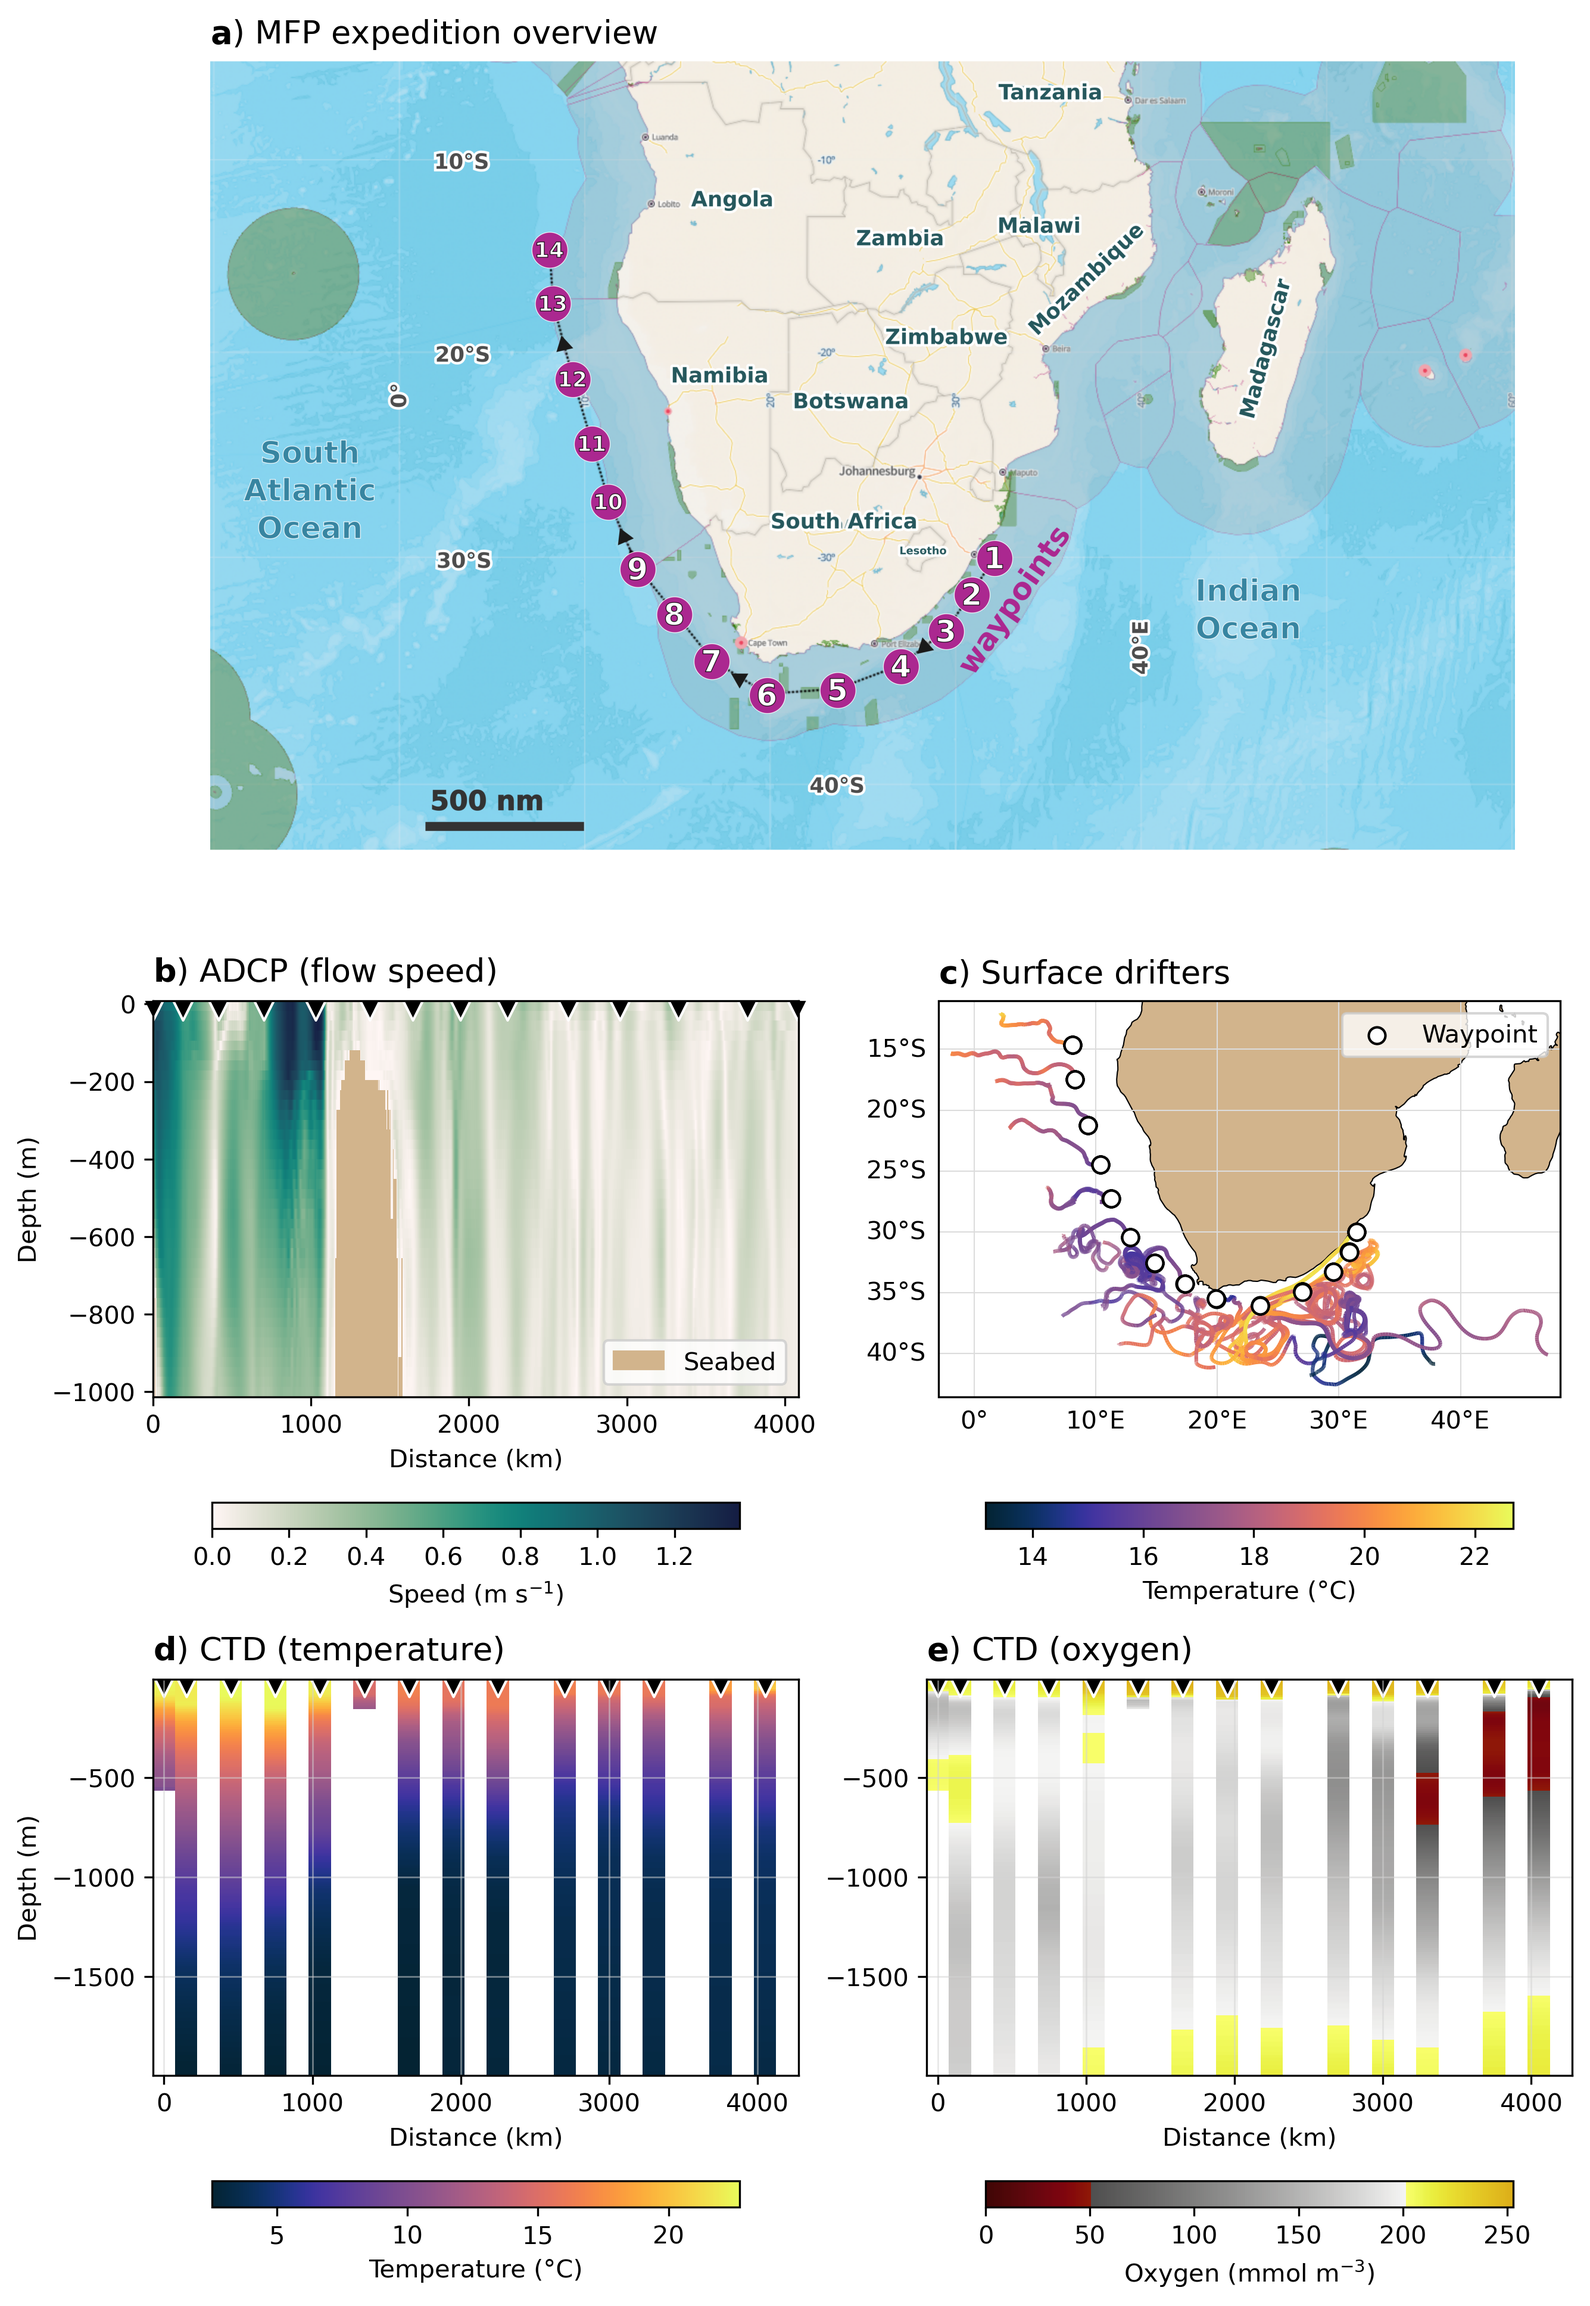
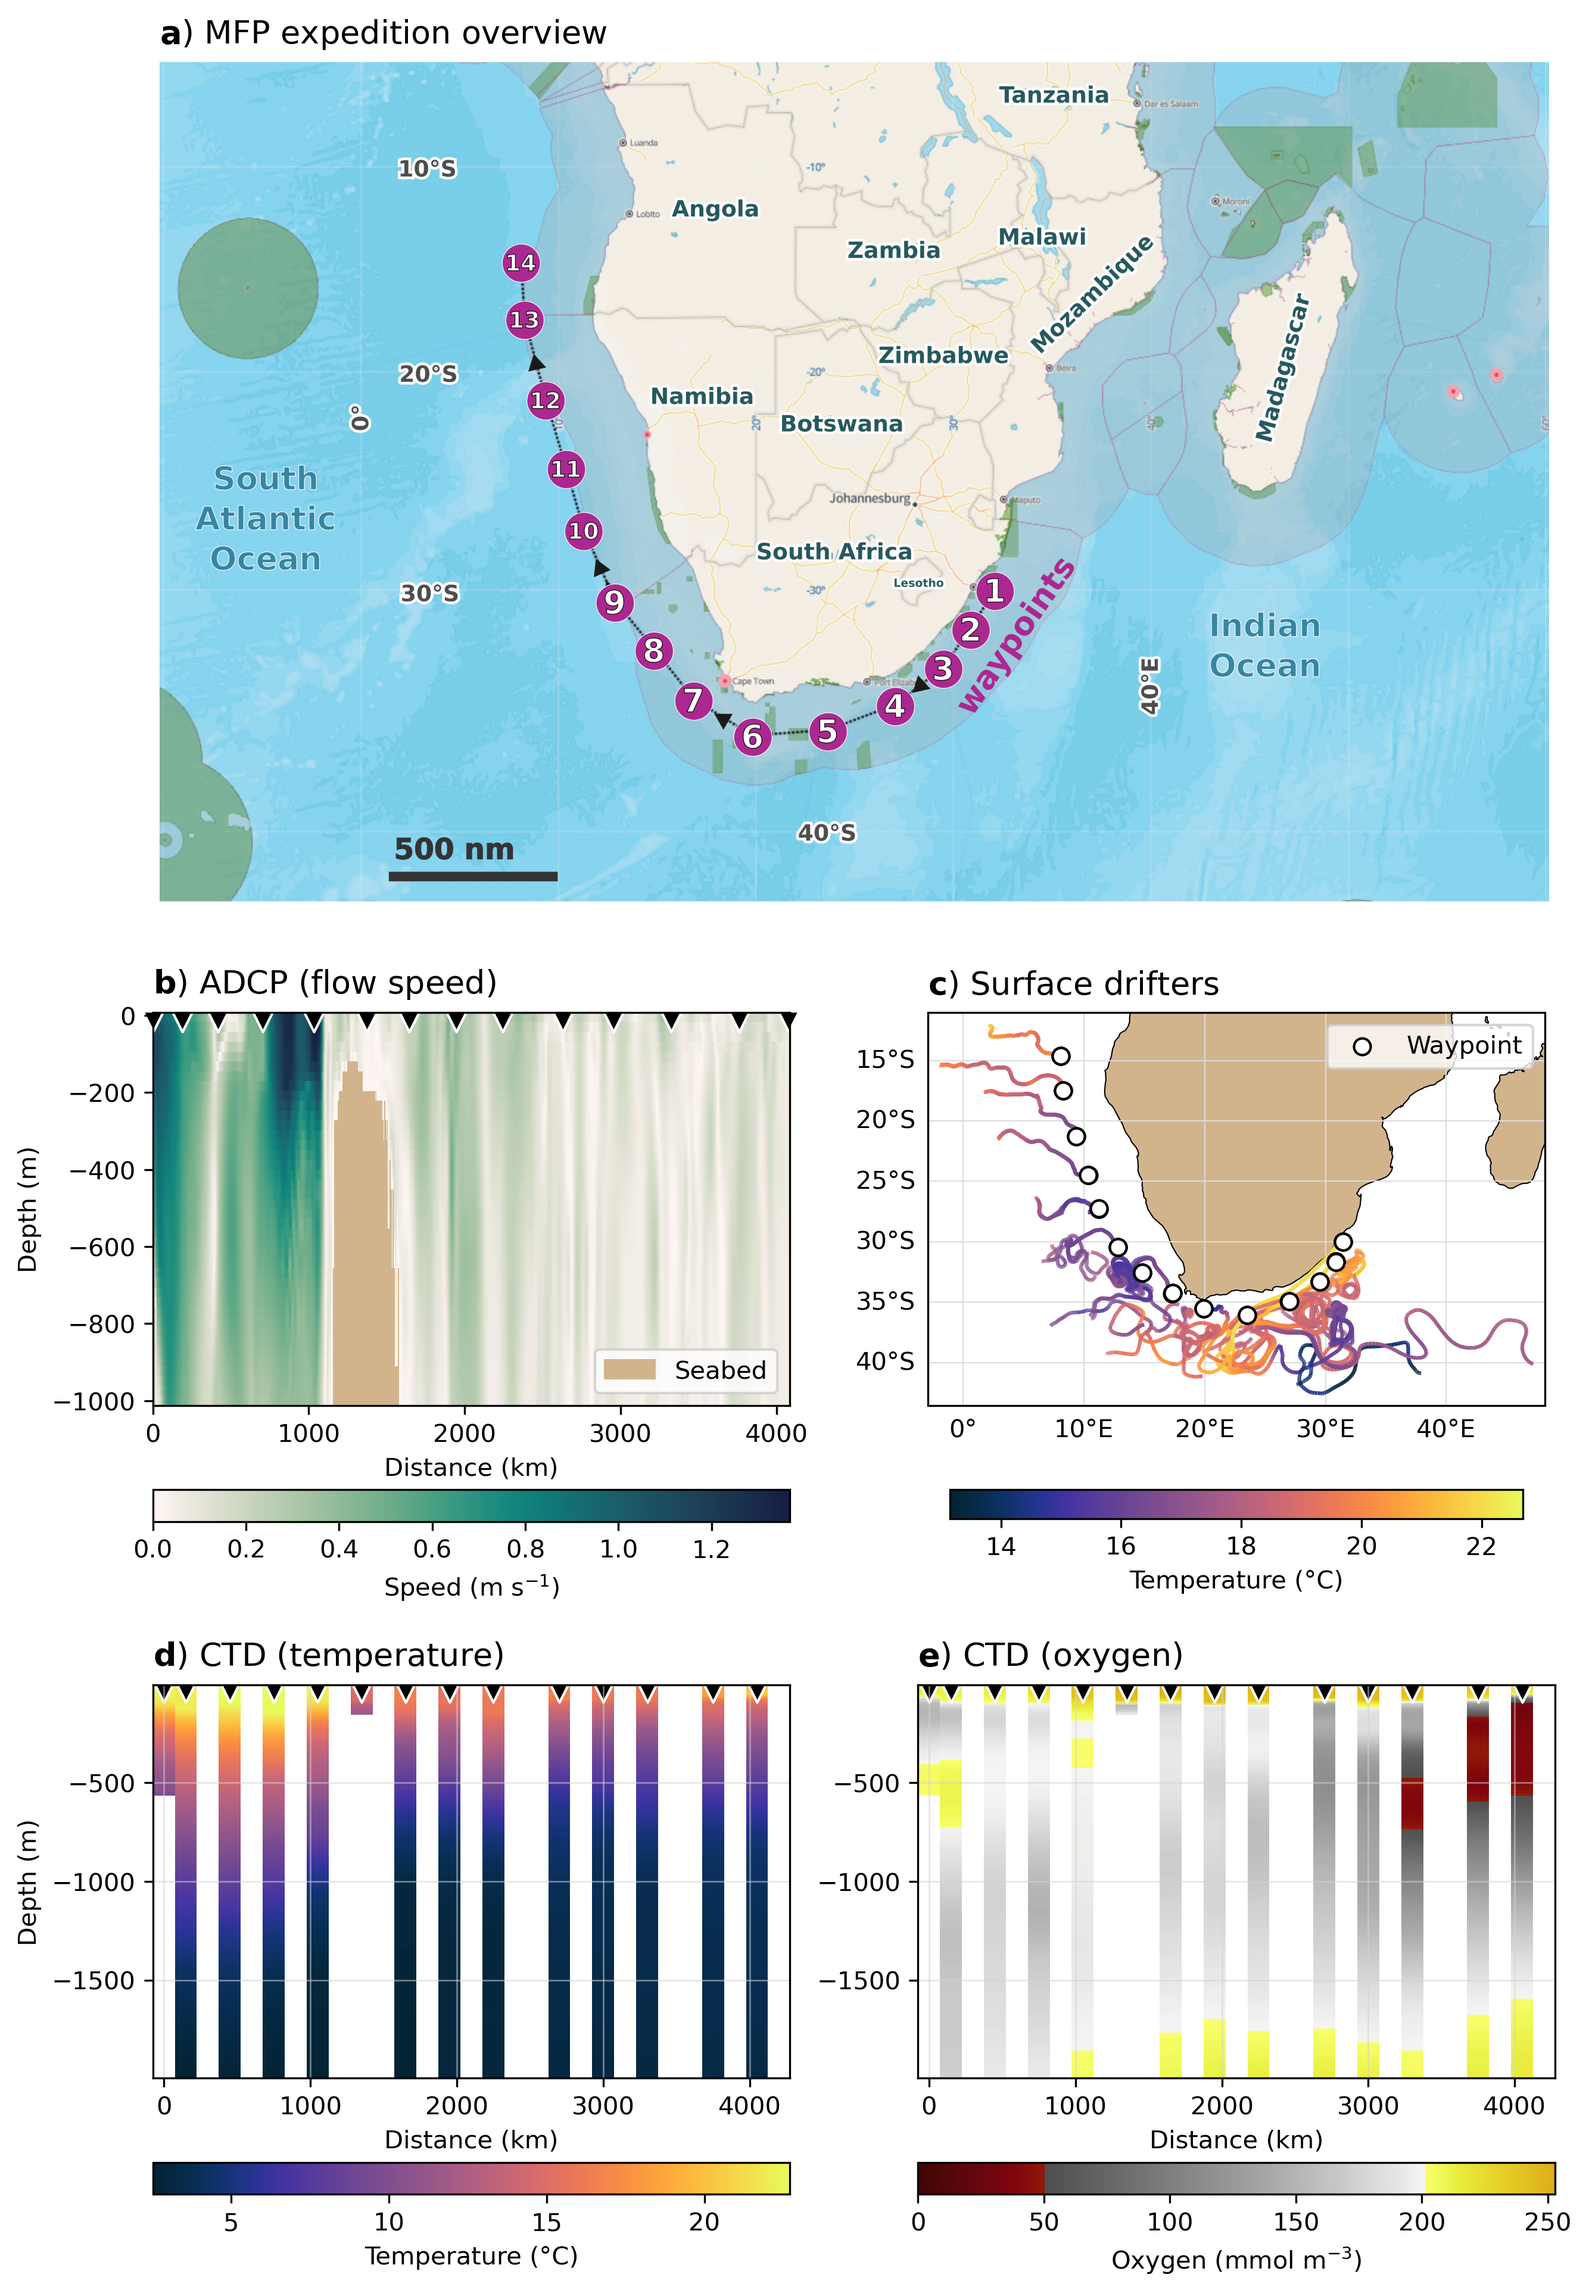
remove fraction and pad from cmap adding

Changed region(s): [[0.0311, 0.0, 0.9955, 0.9974], [0.0, 0.7792, 0.0933, 0.8727], [0.0, 0.4987, 0.0311, 0.561]]

diff --git a/docs/paper/plotting_functions.py b/docs/paper/plotting_functions.py
@@ -211,8 +211,6 @@ def _add_cmap(
     vmax,
     orientation="horizontal",
     shrink=0.90,
-    fraction=0.05,
-    pad=0.2,
 ):
     sm = plt.cm.ScalarMappable(cmap=cmap, norm=mcolors.Normalize(vmin, vmax))
     sm._A = []
@@ -222,8 +220,6 @@ def _add_cmap(
         orientation=orientation,
         label=label,
         shrink=shrink,
-        fraction=fraction,
-        pad=pad,
     )
 
 
